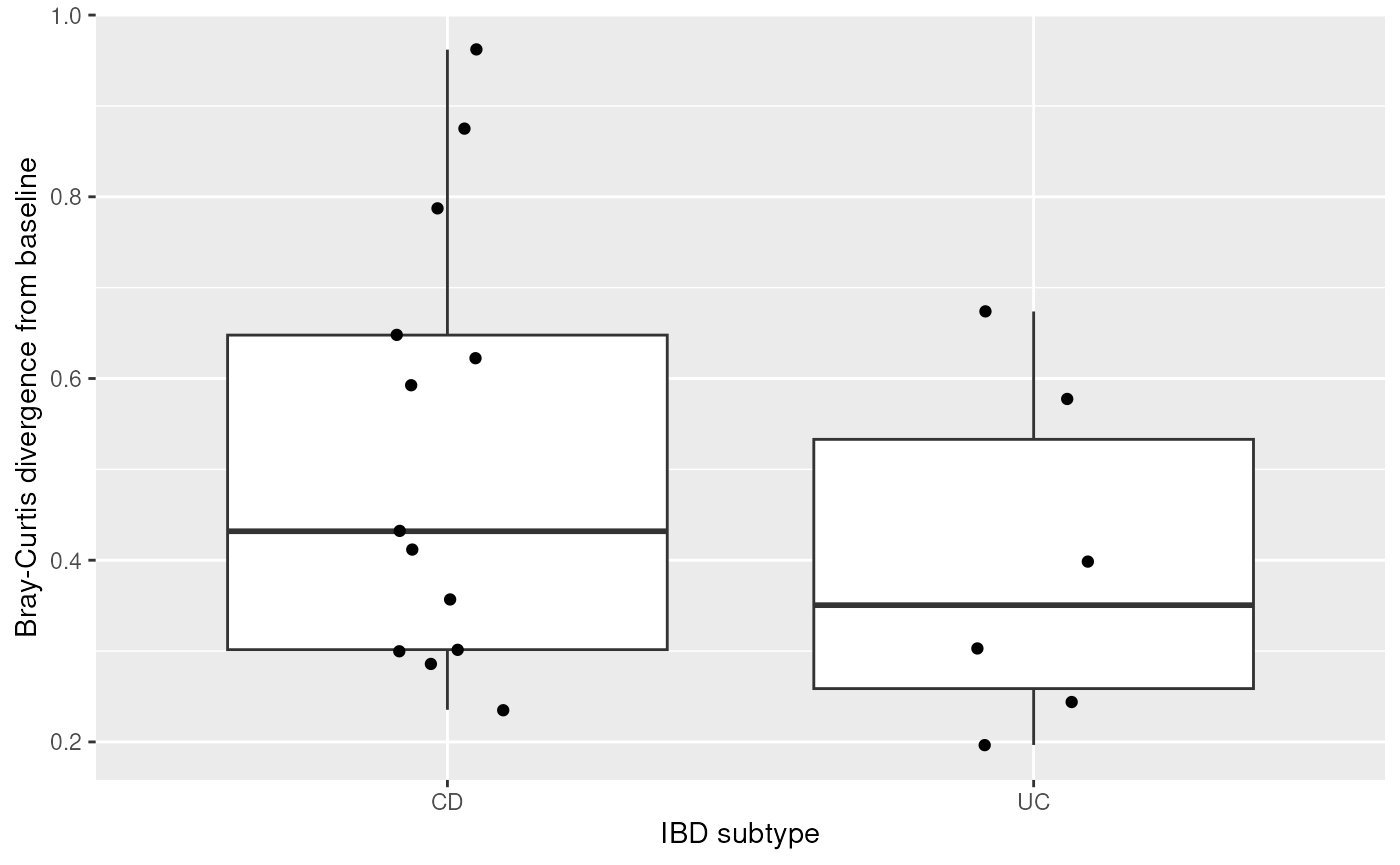
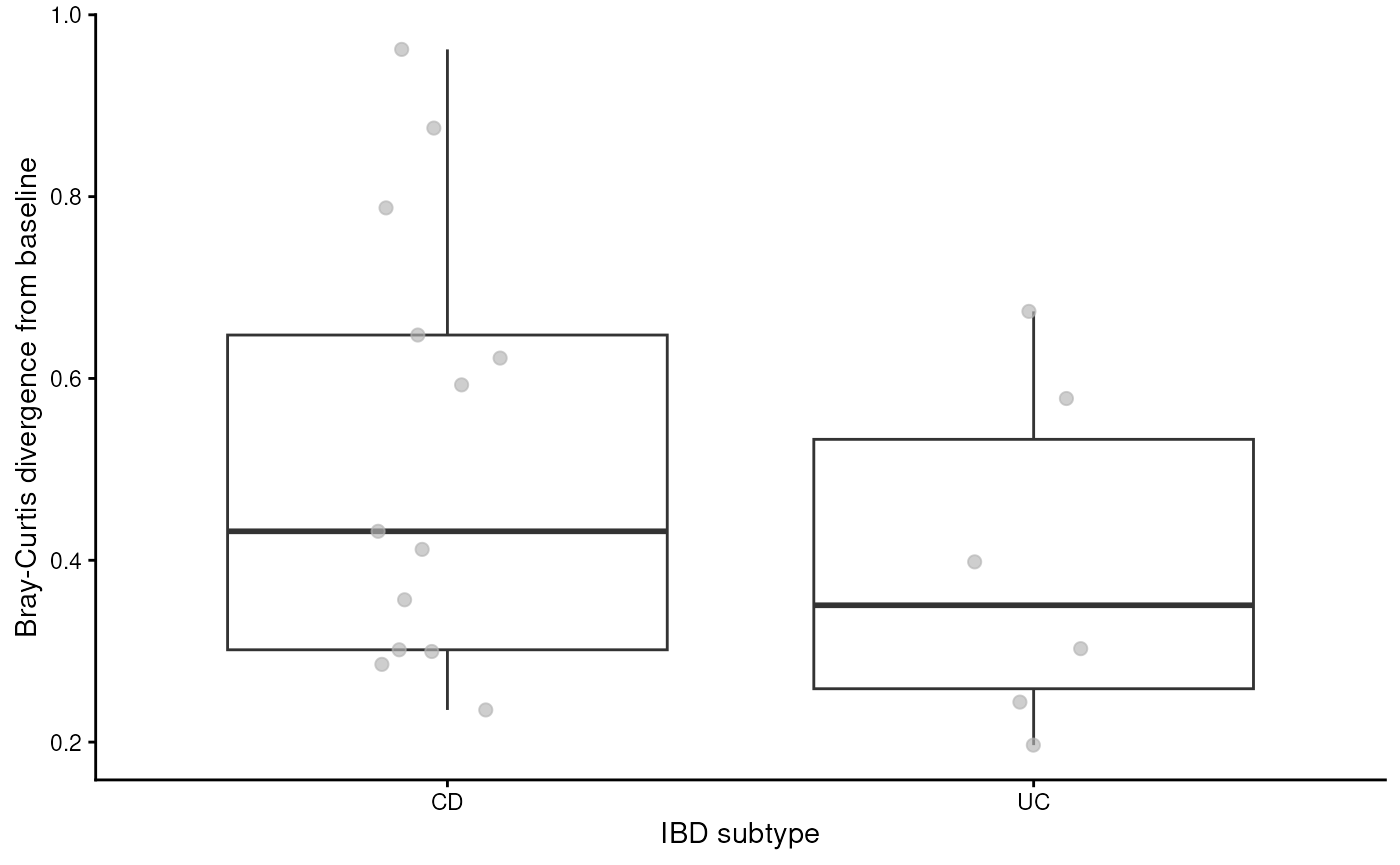
Deploying to gh-pages from @ microbiome/miaTime@568c2d0f5bd9924378846406b385bd40c0a99e6e 🚀

diff --git a/articles/miaTime.html b/articles/miaTime.html
@@ -69,7 +69,7 @@
             
             <h4 data-toc-skip class="date">2026-11-03</h4>
       
-      <small class="dont-index">Source: <a href="https://github.com/microbiome/miaTime/blob/temporal-variogram/vignettes/miaTime.Rmd" class="external-link"><code>vignettes/miaTime.Rmd</code></a></small>
+      <small class="dont-index">Source: <a href="https://github.com/microbiome/miaTime/blob/vignette-all-methods/vignettes/miaTime.Rmd" class="external-link"><code>vignettes/miaTime.Rmd</code></a></small>
       <div class="hidden name"><code>miaTime.Rmd</code></div>
 
     </div>
@@ -145,87 +145,174 @@ divergence helps determine how resistant the microbial ecosystem is to
 perturbations (such as antibiotics or diet changes) and how long it
 takes to return (if at all) to its original state.</p>
 <p>Divergences can be calculated with <code>*Divergence()</code>
-functions. In the example below, for each subject, we calculate the
-divergence of their samples by comparing them to the first time
-point.</p>
+functions. In the example below, we use a subset of the HMP2
+inflammatory bowel disease cohort, where each subject was sampled before
+and after treatment. For each subject, we compare the follow-up sample
+to the first sample.</p>
 <div class="sourceCode" id="cb3"><pre class="downlit sourceCode r">
+<code class="sourceCode R"><span><span class="fu"><a href="https://rdrr.io/r/utils/data.html" class="external-link">data</a></span><span class="op">(</span><span class="va">HMP_2019_ibdmdb</span><span class="op">)</span></span>
+<span><span class="va">tse</span> <span class="op">&lt;-</span> <span class="va">HMP_2019_ibdmdb</span></span>
+<span></span>
+<span><span class="va">tse</span> <span class="op">&lt;-</span> <span class="fu"><a href="../reference/getBaselineDivergence.html">addBaselineDivergence</a></span><span class="op">(</span></span>
+<span>    <span class="va">tse</span>,</span>
+<span>    time.col <span class="op">=</span> <span class="st">"days_from_first_collection"</span>,</span>
+<span>    group <span class="op">=</span> <span class="st">"subject_id"</span>,</span>
+<span>    assay.type <span class="op">=</span> <span class="st">"relabundance"</span>,</span>
+<span>    method <span class="op">=</span> <span class="st">"bray"</span><span class="op">)</span></span></code></pre></div>
+<p>The results are stored in <code>colData</code>. Divergence is zero
+for the baseline samples, so we compare the follow-up samples between
+IBD subtypes.</p>
+<div class="sourceCode" id="cb4"><pre class="downlit sourceCode r">
+<code class="sourceCode R"><span><span class="kw"><a href="https://rdrr.io/r/base/library.html" class="external-link">library</a></span><span class="op">(</span><span class="va"><a href="https://github.com/microbiome/miaViz" class="external-link">miaViz</a></span><span class="op">)</span></span>
+<span><span class="kw"><a href="https://rdrr.io/r/base/library.html" class="external-link">library</a></span><span class="op">(</span><span class="va"><a href="https://ggplot2.tidyverse.org" class="external-link">ggplot2</a></span><span class="op">)</span></span>
+<span></span>
+<span><span class="fu"><a href="https://rdrr.io/pkg/miaViz/man/plotBoxplot.html" class="external-link">plotBoxplot</a></span><span class="op">(</span></span>
+<span>    <span class="va">tse</span><span class="op">[</span>, <span class="va">tse</span><span class="op">[[</span><span class="st">"time_diff"</span><span class="op">]</span><span class="op">]</span> <span class="op">&gt;</span> <span class="fl">0</span><span class="op">]</span>,</span>
+<span>    col.var <span class="op">=</span> <span class="st">"divergence"</span>,</span>
+<span>    x <span class="op">=</span> <span class="st">"disease_subtype"</span><span class="op">)</span> <span class="op">+</span></span>
+<span>    <span class="fu"><a href="https://ggplot2.tidyverse.org/reference/labs.html" class="external-link">labs</a></span><span class="op">(</span>x <span class="op">=</span> <span class="st">"IBD subtype"</span>, y <span class="op">=</span> <span class="st">"Bray-Curtis divergence from baseline"</span><span class="op">)</span></span></code></pre></div>
+<p><img src="miaTime_files/figure-html/base_divergence_plot-1.png" class="r-plt" alt="" width="700"></p>
+<p>Stepwise divergence compares each sample to the previous sample of
+the same subject. In <code>hitchip1006</code>, some subjects have up to
+five samples.</p>
+<div class="sourceCode" id="cb5"><pre class="downlit sourceCode r">
 <code class="sourceCode R"><span><span class="fu"><a href="https://rdrr.io/r/utils/data.html" class="external-link">data</a></span><span class="op">(</span><span class="va">hitchip1006</span><span class="op">)</span></span>
 <span><span class="va">tse</span> <span class="op">&lt;-</span> <span class="va">hitchip1006</span></span>
+<span><span class="va">tse</span> <span class="op">&lt;-</span> <span class="fu"><a href="https://microbiome.github.io/mia/reference/transformAssay.html" class="external-link">transformAssay</a></span><span class="op">(</span><span class="va">tse</span>, method <span class="op">=</span> <span class="st">"relabundance"</span><span class="op">)</span></span>
 <span></span>
-<span><span class="va">res</span> <span class="op">&lt;-</span> <span class="fu"><a href="../reference/getBaselineDivergence.html">getBaselineDivergence</a></span><span class="op">(</span></span>
-<span>    <span class="va">tse</span>, time.col <span class="op">=</span> <span class="st">"time"</span>, group <span class="op">=</span> <span class="st">"sample"</span>, </span>
-<span>    name <span class="op">=</span> <span class="fu"><a href="https://rdrr.io/r/base/c.html" class="external-link">c</a></span><span class="op">(</span><span class="st">"baseline"</span>, <span class="st">"time_diff"</span>, <span class="st">"ref_samples"</span><span class="op">)</span><span class="op">)</span></span>
-<span><span class="va">res</span> <span class="op">|&gt;</span> <span class="fu"><a href="https://rdrr.io/r/utils/head.html" class="external-link">head</a></span><span class="op">(</span><span class="op">)</span></span>
+<span><span class="va">res</span> <span class="op">&lt;-</span> <span class="fu"><a href="../reference/getStepwiseDivergence.html">getStepwiseDivergence</a></span><span class="op">(</span></span>
+<span>    <span class="va">tse</span>,</span>
+<span>    time.col <span class="op">=</span> <span class="st">"time"</span>,</span>
+<span>    group <span class="op">=</span> <span class="st">"subject"</span>,</span>
+<span>    assay.type <span class="op">=</span> <span class="st">"relabundance"</span>,</span>
+<span>    method <span class="op">=</span> <span class="st">"bray"</span><span class="op">)</span></span>
+<span><span class="va">res</span><span class="op">[</span><span class="op">!</span><span class="fu"><a href="https://rdrr.io/r/base/NA.html" class="external-link">is.na</a></span><span class="op">(</span><span class="va">res</span><span class="op">[[</span><span class="st">"divergence"</span><span class="op">]</span><span class="op">]</span><span class="op">)</span>, <span class="op">]</span> <span class="op">|&gt;</span> <span class="fu"><a href="https://rdrr.io/r/utils/head.html" class="external-link">head</a></span><span class="op">(</span><span class="op">)</span></span>
 <span><span class="co">#&gt; DataFrame with 6 rows and 3 columns</span></span>
-<span><span class="co">#&gt;           baseline time_diff ref_samples</span></span>
-<span><span class="co">#&gt;          &lt;numeric&gt; &lt;numeric&gt; &lt;character&gt;</span></span>
-<span><span class="co">#&gt; Sample-1         0         0    Sample-1</span></span>
-<span><span class="co">#&gt; Sample-2         0         0    Sample-2</span></span>
-<span><span class="co">#&gt; Sample-3         0         0    Sample-3</span></span>
-<span><span class="co">#&gt; Sample-4         0         0    Sample-4</span></span>
-<span><span class="co">#&gt; Sample-5         0         0    Sample-5</span></span>
-<span><span class="co">#&gt; Sample-6         0         0    Sample-6</span></span></code></pre></div>
-<p>A more convenient and preferred approach is to store the values
-directly in <code>colData</code> using the <code>add*Divergence()</code>
-functions. In the example below, we calculate stepwise divergences with
-a lag of 1, meaning that for each sample, the divergence is calculated
-by comparing it to the previous time point for the same subject.</p>
-<div class="sourceCode" id="cb4"><pre class="downlit sourceCode r">
-<code class="sourceCode R"><span><span class="va">tse</span> <span class="op">&lt;-</span> <span class="fu"><a href="../reference/getStepwiseDivergence.html">addStepwiseDivergence</a></span><span class="op">(</span><span class="va">tse</span>, time.col <span class="op">=</span> <span class="st">"time"</span><span class="op">)</span></span>
-<span><span class="fu">colData</span><span class="op">(</span><span class="va">tse</span><span class="op">)</span></span>
-<span><span class="co">#&gt; DataFrame with 1151 rows and 13 columns</span></span>
-<span><span class="co">#&gt;                   age      sex nationality DNA_extraction_method  project</span></span>
-<span><span class="co">#&gt;             &lt;integer&gt; &lt;factor&gt;    &lt;factor&gt;              &lt;factor&gt; &lt;factor&gt;</span></span>
-<span><span class="co">#&gt; Sample-1           28   male            US                    NA        1</span></span>
-<span><span class="co">#&gt; Sample-2           24   female          US                    NA        1</span></span>
-<span><span class="co">#&gt; Sample-3           52   male            US                    NA        1</span></span>
-<span><span class="co">#&gt; Sample-4           22   female          US                    NA        1</span></span>
-<span><span class="co">#&gt; Sample-5           25   female          US                    NA        1</span></span>
-<span><span class="co">#&gt; ...               ...      ...         ...                   ...      ...</span></span>
-<span><span class="co">#&gt; Sample-1168        50   female Scandinavia                     r       40</span></span>
-<span><span class="co">#&gt; Sample-1169        31   female Scandinavia                     r       40</span></span>
-<span><span class="co">#&gt; Sample-1170        31   female Scandinavia                     r       40</span></span>
-<span><span class="co">#&gt; Sample-1171        52   male   Scandinavia                     r       40</span></span>
-<span><span class="co">#&gt; Sample-1172        52   male   Scandinavia                     r       40</span></span>
-<span><span class="co">#&gt;             diversity   bmi_group  subject      time      sample divergence</span></span>
-<span><span class="co">#&gt;             &lt;numeric&gt;    &lt;factor&gt; &lt;factor&gt; &lt;numeric&gt; &lt;character&gt;  &lt;numeric&gt;</span></span>
-<span><span class="co">#&gt; Sample-1         5.76 severeobese        1         0    Sample-1         NA</span></span>
-<span><span class="co">#&gt; Sample-2         6.06 obese              2         0    Sample-2         NA</span></span>
-<span><span class="co">#&gt; Sample-3         5.50 lean               3         0    Sample-3         NA</span></span>
-<span><span class="co">#&gt; Sample-4         5.87 underweight        4         0    Sample-4         NA</span></span>
-<span><span class="co">#&gt; Sample-5         5.89 lean               5         0    Sample-5         NA</span></span>
-<span><span class="co">#&gt; ...               ...         ...      ...       ...         ...        ...</span></span>
-<span><span class="co">#&gt; Sample-1168      5.87 severeobese      244       8.1 Sample-1168   0.479394</span></span>
-<span><span class="co">#&gt; Sample-1169      5.87 overweight       245       2.3 Sample-1169   0.356508</span></span>
-<span><span class="co">#&gt; Sample-1170      5.92 overweight       245       8.2 Sample-1170   0.434298</span></span>
-<span><span class="co">#&gt; Sample-1171      6.04 overweight       246       2.1 Sample-1171   0.403581</span></span>
-<span><span class="co">#&gt; Sample-1172      5.74 overweight       246       7.9 Sample-1172   0.485427</span></span>
-<span><span class="co">#&gt;             time_diff                             ref_samples</span></span>
-<span><span class="co">#&gt;             &lt;numeric&gt;                                  &lt;list&gt;</span></span>
-<span><span class="co">#&gt; Sample-1           NA                                      NA</span></span>
-<span><span class="co">#&gt; Sample-2           NA                                      NA</span></span>
-<span><span class="co">#&gt; Sample-3           NA                                      NA</span></span>
-<span><span class="co">#&gt; Sample-4           NA                                      NA</span></span>
-<span><span class="co">#&gt; Sample-5           NA                                      NA</span></span>
-<span><span class="co">#&gt; ...               ...                                     ...</span></span>
-<span><span class="co">#&gt; Sample-1168       0.2                             Sample-1172</span></span>
-<span><span class="co">#&gt; Sample-1169       0.2                             Sample-1171</span></span>
-<span><span class="co">#&gt; Sample-1170       0.1                 Sample-1127,Sample-1168</span></span>
-<span><span class="co">#&gt; Sample-1171       0.7 Sample-1016,Sample-1022,Sample-1027,...</span></span>
-<span><span class="co">#&gt; Sample-1172       0.1                             Sample-1162</span></span></code></pre></div>
+<span><span class="co">#&gt;             divergence time_diff ref_samples</span></span>
+<span><span class="co">#&gt;              &lt;numeric&gt; &lt;numeric&gt; &lt;character&gt;</span></span>
+<span><span class="co">#&gt; Sample-1007   0.324761      24.0  Sample-875</span></span>
+<span><span class="co">#&gt; Sample-1008   0.256115      36.0  Sample-876</span></span>
+<span><span class="co">#&gt; Sample-1009   0.223923      12.0  Sample-878</span></span>
+<span><span class="co">#&gt; Sample-1011   0.330024      24.0 Sample-1009</span></span>
+<span><span class="co">#&gt; Sample-1012   0.000000       0.2  Sample-831</span></span>
+<span><span class="co">#&gt; Sample-1014   0.148906       0.5 Sample-1012</span></span></code></pre></div>
+<p>The <code>time_diff</code> column shows how much time separates each
+sample from the one it is compared to. The intervals vary between
+subjects, which is worth keeping in mind when comparing divergences.</p>
 </div>
+</div>
+<div class="section level2">
+<h2 id="short-term-change">Short term change<a class="anchor" aria-label="anchor" href="#short-term-change"></a>
+</h2>
+<p>Short term change measures how the abundance of each feature changes
+between consecutive time points. <code><a href="../reference/getShortTermChange.html">getShortTermChange()</a></code>
+returns the absolute change, growth rate and rate of change for each
+feature (Ji et al. 2020). Below, we use <code>minimalgut</code>, a time
+series of a synthetic gut community in bioreactors.</p>
+<div class="sourceCode" id="cb6"><pre class="downlit sourceCode r">
+<code class="sourceCode R"><span><span class="fu"><a href="https://rdrr.io/r/utils/data.html" class="external-link">data</a></span><span class="op">(</span><span class="va">minimalgut</span><span class="op">)</span></span>
+<span><span class="va">tse</span> <span class="op">&lt;-</span> <span class="va">minimalgut</span></span>
+<span><span class="va">tse</span> <span class="op">&lt;-</span> <span class="fu"><a href="https://microbiome.github.io/mia/reference/transformAssay.html" class="external-link">transformAssay</a></span><span class="op">(</span><span class="va">tse</span>, method <span class="op">=</span> <span class="st">"relabundance"</span><span class="op">)</span></span>
+<span></span>
+<span><span class="va">df</span> <span class="op">&lt;-</span> <span class="fu"><a href="../reference/getShortTermChange.html">getShortTermChange</a></span><span class="op">(</span></span>
+<span>    <span class="va">tse</span>,</span>
+<span>    assay.type <span class="op">=</span> <span class="st">"relabundance"</span>,</span>
+<span>    time.col <span class="op">=</span> <span class="st">"Time.hr"</span>,</span>
+<span>    group <span class="op">=</span> <span class="st">"StudyIdentifier"</span><span class="op">)</span></span>
+<span><span class="va">df</span> <span class="op">|&gt;</span> <span class="fu"><a href="https://rdrr.io/r/utils/head.html" class="external-link">head</a></span><span class="op">(</span><span class="op">)</span></span>
+<span><span class="co">#&gt; DataFrame with 6 rows and 7 columns</span></span>
+<span><span class="co">#&gt;   StudyIdentifier             FeatureID   Time.hr time_diff abundance_diff</span></span>
+<span><span class="co">#&gt;       &lt;character&gt;              &lt;factor&gt; &lt;numeric&gt; &lt;numeric&gt;      &lt;numeric&gt;</span></span>
+<span><span class="co">#&gt; 1    Bioreactor A Agathobacter_rectalis         0        NA             NA</span></span>
+<span><span class="co">#&gt; 2    Bioreactor A Agathobacter_rectalis         4         4     0.01631756</span></span>
+<span><span class="co">#&gt; 3    Bioreactor A Agathobacter_rectalis         8         4     0.14502124</span></span>
+<span><span class="co">#&gt; 4    Bioreactor A Agathobacter_rectalis        12         4    -0.15172401</span></span>
+<span><span class="co">#&gt; 5    Bioreactor A Agathobacter_rectalis        24        12    -0.02344870</span></span>
+<span><span class="co">#&gt; 6    Bioreactor A Agathobacter_rectalis        28         4    -0.00490686</span></span>
+<span><span class="co">#&gt;   growth_rate rate_of_change</span></span>
+<span><span class="co">#&gt;     &lt;numeric&gt;      &lt;numeric&gt;</span></span>
+<span><span class="co">#&gt; 1          NA             NA</span></span>
+<span><span class="co">#&gt; 2    0.472959     0.00407939</span></span>
+<span><span class="co">#&gt; 3    2.853704     0.03625531</span></span>
+<span><span class="co">#&gt; 4   -0.774735    -0.03793100</span></span>
+<span><span class="co">#&gt; 5   -0.531526    -0.00195406</span></span>
+<span><span class="co">#&gt; 6   -0.237424    -0.00122672</span></span></code></pre></div>
+</div>
+<div class="section level2">
+<h2 id="stability">Stability<a class="anchor" aria-label="anchor" href="#stability"></a>
+</h2>
+<p>Intermediate stability (Lahti et al. 2014) relates the change of a
+feature between consecutive time points to how far it was from a
+reference point, by default its median abundance. See
+<code><a href="../reference/getStability.html">?getStability</a></code> for the formulas.</p>
+<div class="sourceCode" id="cb7"><pre class="downlit sourceCode r">
+<code class="sourceCode R"><span><span class="va">tse</span> <span class="op">&lt;-</span> <span class="fu"><a href="https://microbiome.github.io/mia/reference/transformAssay.html" class="external-link">transformAssay</a></span><span class="op">(</span><span class="va">tse</span>, method <span class="op">=</span> <span class="st">"rclr"</span><span class="op">)</span></span>
+<span><span class="va">tse</span> <span class="op">&lt;-</span> <span class="fu"><a href="../reference/getStability.html">addStability</a></span><span class="op">(</span></span>
+<span>    <span class="va">tse</span>,</span>
+<span>    assay.type <span class="op">=</span> <span class="st">"rclr"</span>,</span>
+<span>    time.col <span class="op">=</span> <span class="st">"Time.hr"</span>,</span>
+<span>    group <span class="op">=</span> <span class="st">"StudyIdentifier"</span><span class="op">)</span></span>
+<span><span class="fu"><a href="https://rdrr.io/pkg/SummarizedExperiment/man/SummarizedExperiment-class.html" class="external-link">rowData</a></span><span class="op">(</span><span class="va">tse</span><span class="op">)</span><span class="op">[</span>, <span class="fu"><a href="https://rdrr.io/r/base/grep.html" class="external-link">grepl</a></span><span class="op">(</span><span class="st">"stability"</span>, <span class="fu"><a href="https://rdrr.io/r/base/colnames.html" class="external-link">colnames</a></span><span class="op">(</span><span class="fu"><a href="https://rdrr.io/pkg/SummarizedExperiment/man/SummarizedExperiment-class.html" class="external-link">rowData</a></span><span class="op">(</span><span class="va">tse</span><span class="op">)</span><span class="op">)</span><span class="op">)</span>, drop <span class="op">=</span> <span class="cn">FALSE</span><span class="op">]</span> <span class="op">|&gt;</span></span>
+<span>    <span class="fu"><a href="https://rdrr.io/r/utils/head.html" class="external-link">head</a></span><span class="op">(</span><span class="op">)</span></span>
+<span><span class="co">#&gt; DataFrame with 6 rows and 3 columns</span></span>
+<span><span class="co">#&gt;                              stability_Bioreactor A stability_Bioreactor B</span></span>
+<span><span class="co">#&gt;                                           &lt;numeric&gt;              &lt;numeric&gt;</span></span>
+<span><span class="co">#&gt; Akkermansia_muciniphila                    0.417707               0.492336</span></span>
+<span><span class="co">#&gt; Bacteroides_xylanisolvens                  0.406404               0.359171</span></span>
+<span><span class="co">#&gt; Faecalibacterium_prausnitzii               0.473213               0.395615</span></span>
+<span><span class="co">#&gt; Anaerobutyricum_soehngenii                 0.700362               0.647537</span></span>
+<span><span class="co">#&gt; Subdoligranulum_variabile                  0.638634               0.736475</span></span>
+<span><span class="co">#&gt; Bifidobacterium_adolescentis               0.658647               0.423947</span></span>
+<span><span class="co">#&gt;                              stability_Bioreactor C</span></span>
+<span><span class="co">#&gt;                                           &lt;numeric&gt;</span></span>
+<span><span class="co">#&gt; Akkermansia_muciniphila                    0.330044</span></span>
+<span><span class="co">#&gt; Bacteroides_xylanisolvens                  0.284413</span></span>
+<span><span class="co">#&gt; Faecalibacterium_prausnitzii               0.353709</span></span>
+<span><span class="co">#&gt; Anaerobutyricum_soehngenii                 0.787038</span></span>
+<span><span class="co">#&gt; Subdoligranulum_variabile                  0.751345</span></span>
+<span><span class="co">#&gt; Bifidobacterium_adolescentis               0.314921</span></span></code></pre></div>
+</div>
+<div class="section level2">
+<h2 id="bimodality">Bimodality<a class="anchor" aria-label="anchor" href="#bimodality"></a>
+</h2>
+<p>The coefficient of bimodality tells whether the abundance of a
+feature has two modes, for instance high in some time points and rare in
+others. Together with abundance, it can be used to find conditionally
+rare taxa (Shade et al. 2014). Below, we use one vessel of an artificial
+gut time series.</p>
+<div class="sourceCode" id="cb8"><pre class="downlit sourceCode r">
+<code class="sourceCode R"><span><span class="fu"><a href="https://rdrr.io/r/utils/data.html" class="external-link">data</a></span><span class="op">(</span><span class="va">SilvermanAGutData</span><span class="op">)</span></span>
+<span><span class="va">tse</span> <span class="op">&lt;-</span> <span class="va">SilvermanAGutData</span></span>
+<span><span class="va">tse</span> <span class="op">&lt;-</span> <span class="va">tse</span><span class="op">[</span>, <span class="va">tse</span><span class="op">[[</span><span class="st">"Vessel"</span><span class="op">]</span><span class="op">]</span> <span class="op">==</span> <span class="fl">1</span><span class="op">]</span></span>
+<span><span class="co"># Remove samples without any counts, as their relative abundances are undefined</span></span>
+<span><span class="va">tse</span> <span class="op">&lt;-</span> <span class="va">tse</span><span class="op">[</span>, <span class="fu"><a href="https://rdrr.io/r/base/colSums.html" class="external-link">colSums</a></span><span class="op">(</span><span class="fu"><a href="https://rdrr.io/pkg/SummarizedExperiment/man/SummarizedExperiment-class.html" class="external-link">assay</a></span><span class="op">(</span><span class="va">tse</span>, <span class="st">"counts"</span><span class="op">)</span><span class="op">)</span> <span class="op">&gt;</span> <span class="fl">0</span><span class="op">]</span></span>
+<span><span class="va">tse</span> <span class="op">&lt;-</span> <span class="fu"><a href="https://microbiome.github.io/mia/reference/transformAssay.html" class="external-link">transformAssay</a></span><span class="op">(</span><span class="va">tse</span>, method <span class="op">=</span> <span class="st">"relabundance"</span><span class="op">)</span></span>
+<span></span>
+<span><span class="va">tse</span> <span class="op">&lt;-</span> <span class="fu"><a href="../reference/getBimodality.html">addBimodality</a></span><span class="op">(</span><span class="va">tse</span>, assay.type <span class="op">=</span> <span class="st">"relabundance"</span><span class="op">)</span></span>
+<span><span class="va">bimodal</span> <span class="op">&lt;-</span> <span class="fu"><a href="https://rdrr.io/r/base/colnames.html" class="external-link">rownames</a></span><span class="op">(</span><span class="va">tse</span><span class="op">)</span><span class="op">[</span><span class="fu"><a href="https://rdrr.io/r/base/which.html" class="external-link">which</a></span><span class="op">(</span><span class="fu"><a href="https://rdrr.io/pkg/SummarizedExperiment/man/SummarizedExperiment-class.html" class="external-link">rowData</a></span><span class="op">(</span><span class="va">tse</span><span class="op">)</span><span class="op">[[</span><span class="st">"bimodality"</span><span class="op">]</span><span class="op">]</span> <span class="op">&gt;</span> <span class="fl">0.95</span><span class="op">)</span><span class="op">]</span></span>
+<span><span class="va">abundant</span> <span class="op">&lt;-</span> <span class="fu"><a href="https://microbiome.github.io/mia/reference/getAbundant.html" class="external-link">getAbundant</a></span><span class="op">(</span></span>
+<span>    <span class="va">tse</span>, assay.type <span class="op">=</span> <span class="st">"relabundance"</span>, abundant.th <span class="op">=</span> <span class="fl">0.5</span><span class="op">/</span><span class="fl">100</span><span class="op">)</span></span>
+<span><span class="fu"><a href="https://rdrr.io/r/base/sets.html" class="external-link">intersect</a></span><span class="op">(</span><span class="va">bimodal</span>, <span class="va">abundant</span><span class="op">)</span></span>
+<span><span class="co">#&gt; [1] "seq_362" "seq_413"</span></span></code></pre></div>
 </div>
 <div class="section level2">
 <h2 id="visualize-time-series">Visualize time series<a class="anchor" aria-label="anchor" href="#visualize-time-series"></a>
 </h2>
 <p>We can visualize time series data with <em><a href="https://bioconductor.org/packages/3.24/miaViz" class="external-link">miaViz</a></em>.
-Below, we visualize 5 most abundant taxa.</p>
-<div class="sourceCode" id="cb5"><pre class="downlit sourceCode r">
+Below, we visualize the five most abundant taxa in one bioreactor of
+<code>minimalgut</code>.</p>
+<div class="sourceCode" id="cb9"><pre class="downlit sourceCode r">
 <code class="sourceCode R"><span><span class="kw"><a href="https://rdrr.io/r/base/library.html" class="external-link">library</a></span><span class="op">(</span><span class="va"><a href="https://github.com/microbiome/miaViz" class="external-link">miaViz</a></span><span class="op">)</span></span>
 <span></span>
-<span><span class="va">p</span> <span class="op">&lt;-</span> <span class="fu"><a href="https://rdrr.io/pkg/miaViz/man/plotSeries.html" class="external-link">plotSeries</a></span><span class="op">(</span><span class="va">tse</span>, assay.type <span class="op">=</span> <span class="st">"counts"</span>, </span>
-<span>    time.col <span class="op">=</span> <span class="st">"time"</span>, </span>
-<span>    features <span class="op">=</span> <span class="fu"><a href="https://microbiome.github.io/mia/reference/summary.html" class="external-link">getTop</a></span><span class="op">(</span><span class="va">tse</span>, <span class="fl">5</span><span class="op">)</span>, </span>
+<span><span class="va">tse</span> <span class="op">&lt;-</span> <span class="va">minimalgut</span></span>
+<span><span class="va">tse</span> <span class="op">&lt;-</span> <span class="va">tse</span><span class="op">[</span>, <span class="va">tse</span><span class="op">[[</span><span class="st">"StudyIdentifier"</span><span class="op">]</span><span class="op">]</span> <span class="op">==</span> <span class="st">"Bioreactor A"</span><span class="op">]</span></span>
+<span><span class="va">tse</span> <span class="op">&lt;-</span> <span class="fu"><a href="https://microbiome.github.io/mia/reference/transformAssay.html" class="external-link">transformAssay</a></span><span class="op">(</span><span class="va">tse</span>, method <span class="op">=</span> <span class="st">"relabundance"</span><span class="op">)</span></span>
+<span></span>
+<span><span class="va">p</span> <span class="op">&lt;-</span> <span class="fu"><a href="https://rdrr.io/pkg/miaViz/man/plotSeries.html" class="external-link">plotSeries</a></span><span class="op">(</span></span>
+<span>    <span class="va">tse</span>,</span>
+<span>    assay.type <span class="op">=</span> <span class="st">"relabundance"</span>,</span>
+<span>    time.col <span class="op">=</span> <span class="st">"Time.hr"</span>,</span>
+<span>    features <span class="op">=</span> <span class="fu"><a href="https://microbiome.github.io/mia/reference/summary.html" class="external-link">getTop</a></span><span class="op">(</span><span class="va">tse</span>, <span class="fl">5</span><span class="op">)</span>,</span>
 <span>    colour.by <span class="op">=</span> <span class="st">"rownames"</span><span class="op">)</span></span>
 <span><span class="va">p</span></span></code></pre></div>
 <p><img src="miaTime_files/figure-html/plot_series-1.png" class="r-plt" alt="" width="700"></p>
@@ -233,7 +320,7 @@ Below, we visualize 5 most abundant taxa.</p>
 <div class="section level2">
 <h2 id="session-info">Session info<a class="anchor" aria-label="anchor" href="#session-info"></a>
 </h2>
-<div class="sourceCode" id="cb6"><pre class="downlit sourceCode r">
+<div class="sourceCode" id="cb10"><pre class="downlit sourceCode r">
 <code class="sourceCode R"><span><span class="fu"><a href="https://rdrr.io/r/utils/sessionInfo.html" class="external-link">sessionInfo</a></span><span class="op">(</span><span class="op">)</span></span>
 <span><span class="co">#&gt; R version 4.6.1 (2026-06-24)</span></span>
 <span><span class="co">#&gt; Platform: x86_64-pc-linux-gnu</span></span>

diff --git a/reference/getBaselineDivergence.html b/reference/getBaselineDivergence.html
@@ -46,7 +46,7 @@ similar). The corresponding time difference is returned as well."><!-- mathjax -
   <div class="col-md-9 contents">
     <div class="page-header">
     <h1>Beta diversity between the baseline and later time steps</h1>
-    <small class="dont-index">Source: <a href="https://github.com/microbiome/miaTime/blob/temporal-variogram/R/AllGenerics.R" class="external-link"><code>R/AllGenerics.R</code></a>, <a href="https://github.com/microbiome/miaTime/blob/temporal-variogram/R/getBaselineDivergence.R" class="external-link"><code>R/getBaselineDivergence.R</code></a></small>
+    <small class="dont-index">Source: <a href="https://github.com/microbiome/miaTime/blob/vignette-all-methods/R/AllGenerics.R" class="external-link"><code>R/AllGenerics.R</code></a>, <a href="https://github.com/microbiome/miaTime/blob/vignette-all-methods/R/getBaselineDivergence.R" class="external-link"><code>R/getBaselineDivergence.R</code></a></small>
     <div class="hidden name"><code>getBaselineDivergence.Rd</code></div>
     </div>
 

diff --git a/reference/getStepwiseDivergence.html b/reference/getStepwiseDivergence.html
@@ -45,7 +45,7 @@ time difference."><!-- mathjax --><script src="https://cdnjs.cloudflare.com/ajax
   <div class="col-md-9 contents">
     <div class="page-header">
     <h1>Beta diversity between consecutive time steps</h1>
-    <small class="dont-index">Source: <a href="https://github.com/microbiome/miaTime/blob/temporal-variogram/R/AllGenerics.R" class="external-link"><code>R/AllGenerics.R</code></a>, <a href="https://github.com/microbiome/miaTime/blob/temporal-variogram/R/getStepwiseDivergence.R" class="external-link"><code>R/getStepwiseDivergence.R</code></a></small>
+    <small class="dont-index">Source: <a href="https://github.com/microbiome/miaTime/blob/vignette-all-methods/R/AllGenerics.R" class="external-link"><code>R/AllGenerics.R</code></a>, <a href="https://github.com/microbiome/miaTime/blob/vignette-all-methods/R/getStepwiseDivergence.R" class="external-link"><code>R/getStepwiseDivergence.R</code></a></small>
     <div class="hidden name"><code>getStepwiseDivergence.Rd</code></div>
     </div>
 

diff --git a/reference/getShortTermChange.html b/reference/getShortTermChange.html
@@ -45,7 +45,7 @@ abundance data."><!-- mathjax --><script src="https://cdnjs.cloudflare.com/ajax/
   <div class="col-md-9 contents">
     <div class="page-header">
     <h1>Short term changes in abundance</h1>
-    <small class="dont-index">Source: <a href="https://github.com/microbiome/miaTime/blob/temporal-variogram/R/AllGenerics.R" class="external-link"><code>R/AllGenerics.R</code></a>, <a href="https://github.com/microbiome/miaTime/blob/temporal-variogram/R/getShortTermChange.R" class="external-link"><code>R/getShortTermChange.R</code></a></small>
+    <small class="dont-index">Source: <a href="https://github.com/microbiome/miaTime/blob/vignette-all-methods/R/AllGenerics.R" class="external-link"><code>R/AllGenerics.R</code></a>, <a href="https://github.com/microbiome/miaTime/blob/vignette-all-methods/R/getShortTermChange.R" class="external-link"><code>R/getShortTermChange.R</code></a></small>
     <div class="hidden name"><code>getShortTermChange.Rd</code></div>
     </div>
 

diff --git a/reference/getSamplingSummary.html b/reference/getSamplingSummary.html
@@ -44,7 +44,7 @@
   <div class="col-md-9 contents">
     <div class="page-header">
     <h1>Summarize sampling over time</h1>
-    <small class="dont-index">Source: <a href="https://github.com/microbiome/miaTime/blob/temporal-variogram/R/AllGenerics.R" class="external-link"><code>R/AllGenerics.R</code></a>, <a href="https://github.com/microbiome/miaTime/blob/temporal-variogram/R/getSamplingSummary.R" class="external-link"><code>R/getSamplingSummary.R</code></a></small>
+    <small class="dont-index">Source: <a href="https://github.com/microbiome/miaTime/blob/vignette-all-methods/R/AllGenerics.R" class="external-link"><code>R/AllGenerics.R</code></a>, <a href="https://github.com/microbiome/miaTime/blob/vignette-all-methods/R/getSamplingSummary.R" class="external-link"><code>R/getSamplingSummary.R</code></a></small>
     <div class="hidden name"><code>getSamplingSummary.Rd</code></div>
     </div>
 

diff --git a/reference/getSurvival.html b/reference/getSurvival.html
@@ -47,7 +47,7 @@ log-ratios) should be handled upstream
   <div class="col-md-9 contents">
     <div class="page-header">
     <h1>Survival analysis</h1>
-    <small class="dont-index">Source: <a href="https://github.com/microbiome/miaTime/blob/temporal-variogram/R/AllGenerics.R" class="external-link"><code>R/AllGenerics.R</code></a>, <a href="https://github.com/microbiome/miaTime/blob/temporal-variogram/R/getSurvival.R" class="external-link"><code>R/getSurvival.R</code></a></small>
+    <small class="dont-index">Source: <a href="https://github.com/microbiome/miaTime/blob/vignette-all-methods/R/AllGenerics.R" class="external-link"><code>R/AllGenerics.R</code></a>, <a href="https://github.com/microbiome/miaTime/blob/vignette-all-methods/R/getSurvival.R" class="external-link"><code>R/getSurvival.R</code></a></small>
     <div class="hidden name"><code>getSurvival.Rd</code></div>
     </div>
 

diff --git a/reference/getBimodality.html b/reference/getBimodality.html
@@ -44,7 +44,7 @@
   <div class="col-md-9 contents">
     <div class="page-header">
     <h1>Calculate coefficient of bimodality.</h1>
-    <small class="dont-index">Source: <a href="https://github.com/microbiome/miaTime/blob/temporal-variogram/R/AllGenerics.R" class="external-link"><code>R/AllGenerics.R</code></a>, <a href="https://github.com/microbiome/miaTime/blob/temporal-variogram/R/getBimodality.R" class="external-link"><code>R/getBimodality.R</code></a></small>
+    <small class="dont-index">Source: <a href="https://github.com/microbiome/miaTime/blob/vignette-all-methods/R/AllGenerics.R" class="external-link"><code>R/AllGenerics.R</code></a>, <a href="https://github.com/microbiome/miaTime/blob/vignette-all-methods/R/getBimodality.R" class="external-link"><code>R/getBimodality.R</code></a></small>
     <div class="hidden name"><code>getBimodality.Rd</code></div>
     </div>
 

diff --git a/reference/getStability.html b/reference/getStability.html
@@ -44,7 +44,7 @@
   <div class="col-md-9 contents">
     <div class="page-header">
     <h1>Estimate stability</h1>
-    <small class="dont-index">Source: <a href="https://github.com/microbiome/miaTime/blob/temporal-variogram/R/AllGenerics.R" class="external-link"><code>R/AllGenerics.R</code></a>, <a href="https://github.com/microbiome/miaTime/blob/temporal-variogram/R/getStability.R" class="external-link"><code>R/getStability.R</code></a></small>
+    <small class="dont-index">Source: <a href="https://github.com/microbiome/miaTime/blob/vignette-all-methods/R/AllGenerics.R" class="external-link"><code>R/AllGenerics.R</code></a>, <a href="https://github.com/microbiome/miaTime/blob/vignette-all-methods/R/getStability.R" class="external-link"><code>R/getStability.R</code></a></small>
     <div class="hidden name"><code>getStability.Rd</code></div>
     </div>
 

diff --git a/reference/index.html b/reference/index.html
@@ -59,14 +59,6 @@
         </td>
         <td><p>Beta diversity between consecutive time steps</p></td>
       </tr></tbody><tbody><tr><th colspan="2">
-          <h2 id="variogram">Variogram <a href="#variogram" class="anchor" aria-hidden="true"></a></h2>
-          <p class="section-desc"></p>
-        </th>
-      </tr></tbody><tbody><tr><td>
-          <p><code><a href="getVariogram.html">getVariogram()</a></code> <code><a href="getVariogram.html">addVariogram()</a></code> </p>
-        </td>
-        <td><p>Community change at stated time lags (temporal variogram)</p></td>
-      </tr></tbody><tbody><tr><th colspan="2">
           <h2 id="feature-dynamics">Feature dynamics <a href="#feature-dynamics" class="anchor" aria-hidden="true"></a></h2>
           <p class="section-desc"></p>
         </th>

diff --git a/reference/crohn_survival.html b/reference/crohn_survival.html
@@ -48,7 +48,7 @@ name &quot;data_survival&quot;."><!-- mathjax --><script src="https://cdnjs.clou
   <div class="col-md-9 contents">
     <div class="page-header">
     <h1>Survival microbiome data from 150 individuals with longitudinal measurements</h1>
-    <small class="dont-index">Source: <a href="https://github.com/microbiome/miaTime/blob/temporal-variogram/R/miaTime.R" class="external-link"><code>R/miaTime.R</code></a></small>
+    <small class="dont-index">Source: <a href="https://github.com/microbiome/miaTime/blob/vignette-all-methods/R/miaTime.R" class="external-link"><code>R/miaTime.R</code></a></small>
     <div class="hidden name"><code>crohn_survival.Rd</code></div>
     </div>
 

diff --git a/reference/temporalMicrobiome20.html b/reference/temporalMicrobiome20.html
@@ -47,7 +47,7 @@ industrialized country."><!-- mathjax --><script src="https://cdnjs.cloudflare.c
   <div class="col-md-9 contents">
     <div class="page-header">
     <h1>Gut Microbiome Profiling 20 Belgian Women</h1>
-    <small class="dont-index">Source: <a href="https://github.com/microbiome/miaTime/blob/temporal-variogram/R/miaTime.R" class="external-link"><code>R/miaTime.R</code></a></small>
+    <small class="dont-index">Source: <a href="https://github.com/microbiome/miaTime/blob/vignette-all-methods/R/miaTime.R" class="external-link"><code>R/miaTime.R</code></a></small>
     <div class="hidden name"><code>temporalMicrobiome20.Rd</code></div>
     </div>
 

diff --git a/reference/minimalgut.html b/reference/minimalgut.html
@@ -48,7 +48,7 @@ optical density."><!-- mathjax --><script src="https://cdnjs.cloudflare.com/ajax
   <div class="col-md-9 contents">
     <div class="page-header">
     <h1>Human Gut Minimal Microbiome Profiling Data</h1>
-    <small class="dont-index">Source: <a href="https://github.com/microbiome/miaTime/blob/temporal-variogram/R/miaTime.R" class="external-link"><code>R/miaTime.R</code></a></small>
+    <small class="dont-index">Source: <a href="https://github.com/microbiome/miaTime/blob/vignette-all-methods/R/miaTime.R" class="external-link"><code>R/miaTime.R</code></a></small>
     <div class="hidden name"><code>minimalgut.Rd</code></div>
     </div>
 
